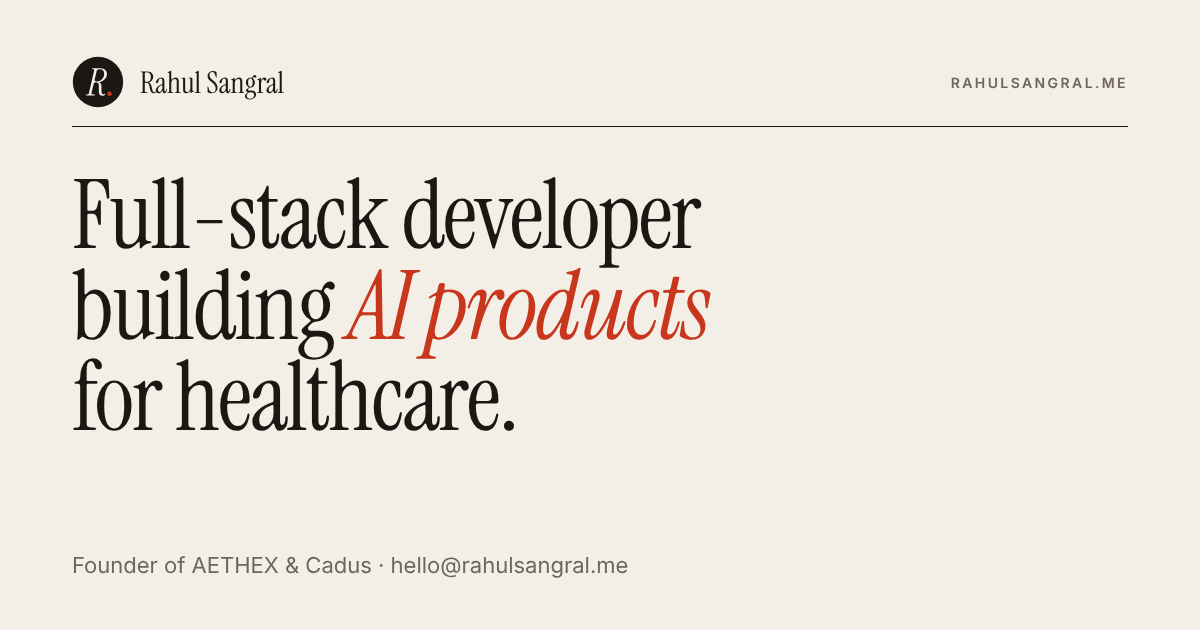
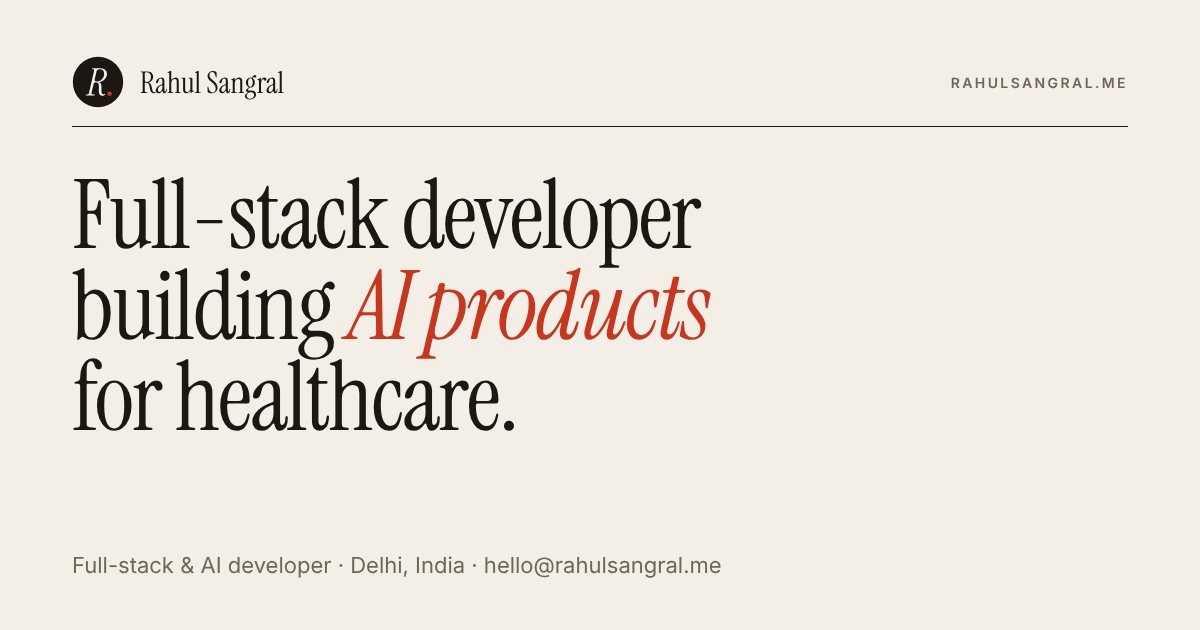
Remove phone number

Changed region(s): [[0.0617, 0.8746, 0.6167, 0.9349]]

diff --git a/index.html b/index.html
@@ -3,10 +3,10 @@
   <head>
     <meta charset="UTF-8" />
     <meta name="viewport" content="width=device-width, initial-scale=1.0, viewport-fit=cover" />
-    <title>Rahul Sangral — Full-Stack Developer · Founder of AETHEX</title>
-    <meta name="description" content="Rahul Sangral — Full-Stack Developer & AI Developer. Founder of AETHEX and builder of the Cadus clinical AI. React, FastAPI, PostgreSQL and AI tooling." />
+    <title>Rahul Sangral — Full-Stack Developer &amp; AI Developer</title>
+    <meta name="description" content="Rahul Sangral — Full-Stack Developer & AI Developer, building AETHEX and the Cadus clinical AI. React, FastAPI, PostgreSQL and AI tooling." />
     <meta name="theme-color" content="#f4efe6" />
-    <meta property="og:title" content="Rahul Sangral — Full-Stack Developer · Founder of AETHEX" />
+    <meta property="og:title" content="Rahul Sangral — Full-Stack Developer &amp; AI Developer" />
     <meta property="og:description" content="Full-stack developer shipping AI products to real users — AETHEX, Cadus and more." />
     <meta property="og:type" content="website" />
     <meta property="og:url" content="https://rahulsangral.me/" />
@@ -17,7 +17,7 @@
     <meta name="author" content="Rahul Sangral" />
     <link rel="canonical" href="https://rahulsangral.me/" />
     <meta name="twitter:card" content="summary_large_image" />
-    <meta name="twitter:title" content="Rahul Sangral — Full-Stack Developer · Founder of AETHEX" />
+    <meta name="twitter:title" content="Rahul Sangral — Full-Stack Developer &amp; AI Developer" />
     <meta name="twitter:description" content="Full-stack developer shipping AI products to real users — AETHEX, Cadus and more." />
     <meta name="twitter:image" content="https://rahulsangral.me/og.png" />
     <script type="application/ld+json">
@@ -30,7 +30,7 @@
         "jobTitle": "Full-Stack Developer",
         "worksFor": { "@type": "Organization", "name": "AETHEX", "url": "https://aethex.in/" },
         "alumniOf": { "@type": "CollegeOrUniversity", "name": "Uttaranchal University" },
-        "address": { "@type": "PostalAddress", "addressLocality": "Jammu", "addressCountry": "IN" },
+        "address": { "@type": "PostalAddress", "addressLocality": "Delhi", "addressCountry": "IN" },
         "sameAs": [
           "https://github.com/sangralrahul",
           "https://www.linkedin.com/in/rahulsangral/",

diff --git a/src/editorial/App.jsx b/src/editorial/App.jsx
@@ -105,7 +105,7 @@ function Hero() {
         <Mark size={64} />
         <div className="id-txt">
           <p className="id-name">Rahul Sangral</p>
-          <p className="id-role">Full-stack developer · Founder, AETHEX</p>
+          <p className="id-role">Full-stack developer · AI developer</p>
         </div>
         <span className="avail"><span className="dot" />Open to SDE roles &amp; freelance</span>
       </div>
@@ -149,7 +149,7 @@ const GLANCE = [
   { k: 'Focus', v: 'Full-stack + AI', d: 'healthcare products' },
   { k: 'Core stack', v: 'React · FastAPI', d: 'TypeScript, PostgreSQL, Python' },
   { k: 'Education', v: 'BCA', d: 'Uttaranchal University' },
-  { k: 'Based in', v: 'Jammu, India', d: 'remote or on-site' },
+  { k: 'Based in', v: 'Delhi, India', d: 'remote or on-site' },
 ]
 
 function Glance() {
@@ -411,7 +411,6 @@ function Contact() {
         <div className="contact-row" data-reveal>
           <a href={social.linkedin.url} target="_blank" rel="noreferrer">LinkedIn</a>
           <a href={social.github.url} target="_blank" rel="noreferrer">GitHub</a>
-          <a href={`tel:${profile.phone.replace(/\s/g, '')}`}>{profile.phone}</a>
           <a href={profile.resume} target="_blank" rel="noreferrer">Résumé (PDF)</a>
         </div>
       </div>

diff --git a/src/components/Contact.jsx b/src/components/Contact.jsx
@@ -41,11 +41,6 @@ export default function Contact() {
               <div><small>Email</small><strong>{profile.email}</strong></div>
               <Icon name="arrow" size={16} className="contact-arrow" />
             </Reveal>
-            <Reveal as="a" delay={0.1} href={`tel:${profile.phone.replace(/\s/g, '')}`} className="contact-row glass">
-              <span className="fact-icon"><Icon name="phone" size={18} /></span>
-              <div><small>Phone</small><strong>{profile.phone}</strong></div>
-              <Icon name="arrow" size={16} className="contact-arrow" />
-            </Reveal>
             <Reveal as="a" delay={0.15} href={socials[1].url} target="_blank" rel="noreferrer" className="contact-row glass">
               <span className="fact-icon"><Icon name="linkedin" size={18} /></span>
               <div><small>LinkedIn</small><strong>linkedin.com/in/rahulsangral</strong></div>

diff --git a/src/pro/App.jsx b/src/pro/App.jsx
@@ -355,7 +355,6 @@ function Contact() {
       <div className="contact-actions">
         <a className="btn btn--light" href={`mailto:${profile.email}`}><Icon name="mail" size={15} /> {profile.email}</a>
         <a className="btn btn--ghost" href={social.linkedin.url} target="_blank" rel="noreferrer"><img src={social.linkedin.logo} alt="" width="15" height="15" /> LinkedIn</a>
-        <a className="btn btn--ghost" href={`tel:${profile.phone.replace(/\s/g, '')}`}><Icon name="phone" size={15} /> {profile.phone}</a>
       </div>
       <footer className="foot">
         <span>© {new Date().getFullYear()} Rahul Sangral · {profile.location}</span>

diff --git a/src/site/App.jsx b/src/site/App.jsx
@@ -374,7 +374,6 @@ function Contact() {
             <a className="btn btn--ghost" href={social.linkedin.url} target="_blank" rel="noreferrer"><img src={social.linkedin.logo} alt="" width="16" height="16" /> LinkedIn</a>
           </div>
           <div className="cta-meta">
-            <a href={`tel:${profile.phone.replace(/\s/g, '')}`}><Icon name="phone" size={14} /> {profile.phone}</a>
             <span><Icon name="pin" size={14} /> {profile.location}</span>
             <span><Icon name="globe" size={14} /> {profile.languages.join(', ')}</span>
           </div>

diff --git a/src/studio/App.jsx b/src/studio/App.jsx
@@ -308,7 +308,6 @@ function Contact() {
           <div className="hero-cta">
             <a className="btn btn--white" href={`mailto:${profile.email}`}><Icon name="mail" size={16} /> {profile.email}</a>
             <a className="btn btn--line" href={social.linkedin.url} target="_blank" rel="noreferrer"><img src={social.linkedin.logo} alt="" width="16" height="16" /> LinkedIn</a>
-            <a className="btn btn--line" href={`tel:${profile.phone.replace(/\s/g, '')}`}><Icon name="phone" size={16} /> {profile.phone}</a>
           </div>
         </div>
       </div>

diff --git a/src/data.js b/src/data.js
@@ -7,9 +7,8 @@ export const profile = {
   role: 'Full-Stack Developer & AI Developer',
   tagline:
     'Founding developer shipping production SaaS end to end — React, FastAPI, PostgreSQL and AI tooling. Graduating 2026 and available now for SDE-1 / New Grad roles and freelance work.',
-  location: 'Jammu, India',
+  location: 'Delhi, India',
   email: 'hello@rahulsangral.me',
-  phone: '+91 96823 94363',
   // Drop your photo at /public/profile.jpg — it is used automatically.
   photo: '/profile.jpg',
   resume: '/resume.pdf',

diff --git a/src/bento/App.jsx b/src/bento/App.jsx
@@ -350,9 +350,7 @@ function Contact() {
           </div>
         </Tile>
         <Tile className="t-phone">
-          <span className="tile-label">Phone</span>
-          <a href={`tel:${profile.phone.replace(/\s/g, '')}`} className="big-link">{profile.phone}</a>
-          <span className="tile-label" style={{ marginTop: 18 }}>Languages</span>
+          <span className="tile-label">Languages</span>
           <p>{profile.languages.join(' · ')}</p>
         </Tile>
       </div>

diff --git a/src/editorial-v1/App.jsx b/src/editorial-v1/App.jsx
@@ -268,7 +268,6 @@ function Contact() {
         <div className="contact-row" data-reveal>
           <a href={social.linkedin.url} target="_blank" rel="noreferrer">LinkedIn</a>
           <a href={social.github.url} target="_blank" rel="noreferrer">GitHub</a>
-          <a href={`tel:${profile.phone.replace(/\s/g, '')}`}>{profile.phone}</a>
           <a href={profile.resume} target="_blank" rel="noreferrer">Résumé (PDF)</a>
         </div>
       </div>
